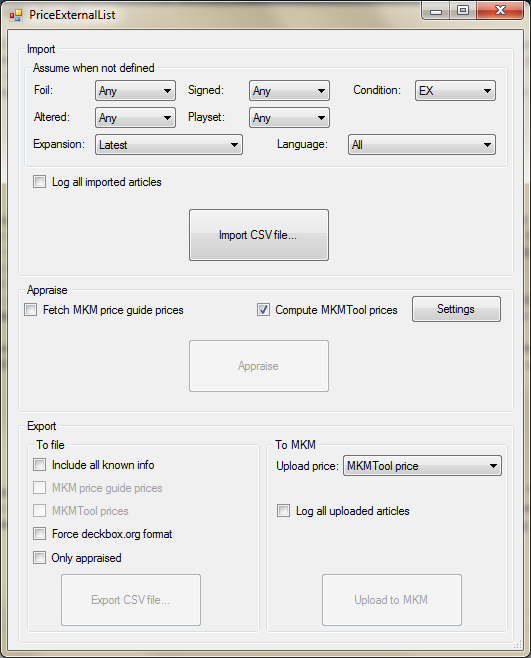
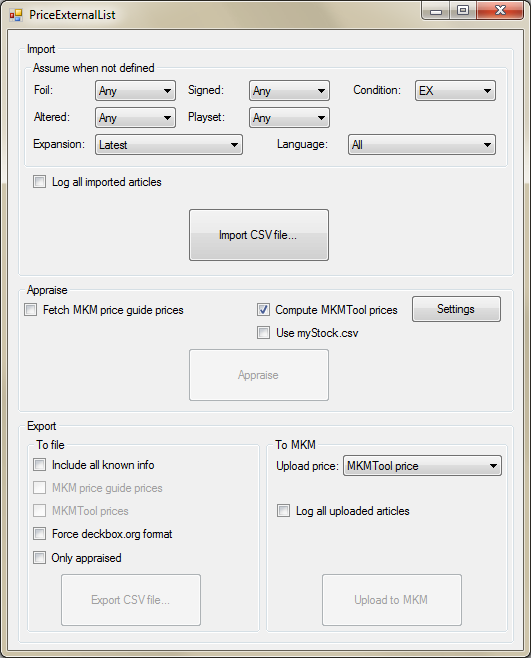
[externalList] Added the option to use myStock when pricing external list and also checks if the article in the list has a MinPrice and uses it if so
Also fixed wrong behaviour of enabling/disabling the Settings button when Compute tool prices is/isn't checked

diff --git a/MKMTool/MKMBot.cs b/MKMTool/MKMBot.cs
@@ -388,14 +388,16 @@ namespace MKMTool
         /// KMTool Price and Price - Cheapest Similar. The first has the price computed, the second has the price of the item that
         /// is currently on sale and has the lowest price and is the same condition, language etc. 
         /// and also from domestic seller if worldwide search is not enabled in the settings.</param>
-        public void generatePrices(List<MKMMetaCard> cardList)
+        /// <param name="useMyStock">If set to true, the MyStock.csv file will be used during the appraisal to 
+        /// limit minimum prices of appraised cards.</param>
+        public void generatePrices(List<MKMMetaCard> cardList, bool useMyStock)
         {
             settings.priceMaxChangeLimits.Clear();
             settings.logLargePriceChangeTooHigh = false;
             settings.logLargePriceChangeTooLow = false;
 
             MainView.Instance.LogMainWindow("Appraising card list...");
-            Dictionary<string, List<MKMMetaCard>> myStock = new Dictionary<string, List<MKMMetaCard>>(); // just an empty dummy myStock lists
+            Dictionary<string, List<MKMMetaCard>> myStock = useMyStock ? LoadMyStock() : new Dictionary<string, List<MKMMetaCard>>();
             foreach (MKMMetaCard mc in cardList)
             {
                 XmlNodeList similarItems = getSimilarItems(mc);
@@ -414,23 +416,12 @@ namespace MKMTool
             MainView.Instance.LogMainWindow("List appraised.");
         }
 
-
-        public void updatePrices()
+        /// <summary>
+        /// Reads the myStock.csv file used for setting minimal prices during appraisal.
+        /// </summary>
+        /// <returns>Dictionary of cards, key == card name or empty string for MetaCards that should ignore names.</returns>
+        private Dictionary<string, List<MKMMetaCard>> LoadMyStock()
         {
-            if (settings.priceSetPriceBy == PriceSetMethod.ByPercentageOfLowestPrice && settings.priceMaxChangeLimits.Count == 0)
-            {
-                MainView.Instance.LogMainWindow("Setting price according to lowest price is very risky - specify limits for maximal price change first!");
-                return;
-            }
-
-#if (DEBUG)
-            var debugCounter = 0;
-#endif
-            List<XmlNode> articles = new List<XmlNode>();
-            string sRequestXML = "";
-            XmlNodeList result;
-            var start = 1;
-            // load file with lowest prices
             Dictionary<string, List<MKMMetaCard>> myStock = new Dictionary<string, List<MKMMetaCard>>();
             if (File.Exists(@".//myStock.csv"))
             {
@@ -460,6 +451,26 @@ namespace MKMTool
                     MKMHelpers.LogError("reading list of minimal prices, continuing price update without it", eError.Message, false);
                 }
             }
+            return myStock;
+        }
+
+        public void updatePrices()
+        {
+            if (settings.priceSetPriceBy == PriceSetMethod.ByPercentageOfLowestPrice && settings.priceMaxChangeLimits.Count == 0)
+            {
+                MainView.Instance.LogMainWindow("Setting price according to lowest price is very risky - specify limits for maximal price change first!");
+                return;
+            }
+
+#if (DEBUG)
+            var debugCounter = 0;
+#endif
+            List<XmlNode> articles = new List<XmlNode>();
+            string sRequestXML = "";
+            XmlNodeList result;
+            var start = 1;
+            // load file with lowest prices
+            Dictionary<string, List<MKMMetaCard>> myStock = LoadMyStock();
             try
             {
                 do
@@ -750,6 +761,19 @@ namespace MKMTool
                 && Math.Abs(priceEstimation - dOldPrice) > 0.005 // don't update if it did not change - clearer log
                 )
             {
+                // Check if the card itself has MinPrice defined - won't happen for traditional update, but can for External List Appraisal
+                double dOwnMinPrice;
+                string sOwnMinPrice = article.GetAttribute(MCAttribute.MinPrice);
+                if (double.TryParse(sOwnMinPrice, out dOwnMinPrice))
+                {
+                    if (isPlayset == "true")
+                        dOwnMinPrice /= 4;
+                    if (priceEstimation < dOwnMinPrice)
+                    {
+                        priceEstimation = dOwnMinPrice;
+                        sNewPrice = sOwnMinPrice;
+                    }
+                }
                 // check against minimum price from local stock database
                 List<MKMMetaCard> listArticles = new List<MKMMetaCard>();
                 if (myStock.ContainsKey(""))
@@ -758,6 +782,8 @@ namespace MKMTool
                     listArticles.AddRange(myStock[articleName]);
                 if (listArticles.Count > 0)
                 {
+                    //reset the min price - card.Equals would otherwise resolve an equal card as not equal because the cards coming from MKM do not have the Min Price
+                    article.SetAttribute(MCAttribute.MinPrice, "");
                     foreach (MKMMetaCard card in listArticles)
                     {
                         if (card.Equals(article))
@@ -773,7 +799,9 @@ namespace MKMTool
                             }
                         }
                     }
+                    article.SetAttribute(MCAttribute.MinPrice, sOwnMinPrice); // restore the Min Price
                 }
+
                 // log large change or small change when enabled
                 if (settings.logUpdated && (settings.logSmallPriceChange ||
                     (priceEstimation > dOldPrice + settings.priceMinRarePrice || priceEstimation < dOldPrice - settings.priceMinRarePrice)))

diff --git a/MKMTool/PriceExternalList.Designer.cs b/MKMTool/PriceExternalList.Designer.cs
@@ -66,6 +66,7 @@
             this.checkBoxExportFormatDeckbox = new System.Windows.Forms.CheckBox();
             this.checkBoxExportPriceGuide = new System.Windows.Forms.CheckBox();
             this.toolTip1 = new System.Windows.Forms.ToolTip(this.components);
+            this.checkBoxMyStock = new System.Windows.Forms.CheckBox();
             this.groupBoxImport.SuspendLayout();
             this.groupBox1.SuspendLayout();
             this.groupBoxPrice.SuspendLayout();
@@ -288,6 +289,7 @@
             // 
             // groupBoxPrice
             // 
+            this.groupBoxPrice.Controls.Add(this.checkBoxMyStock);
             this.groupBoxPrice.Controls.Add(this.buttonBotSettings);
             this.groupBoxPrice.Controls.Add(this.buttonAppraise);
             this.groupBoxPrice.Controls.Add(this.checkBoxToolPrices);
@@ -311,7 +313,7 @@
             // 
             // buttonAppraise
             // 
-            this.buttonAppraise.Location = new System.Drawing.Point(170, 56);
+            this.buttonAppraise.Location = new System.Drawing.Point(170, 65);
             this.buttonAppraise.Name = "buttonAppraise";
             this.buttonAppraise.Size = new System.Drawing.Size(142, 54);
             this.buttonAppraise.TabIndex = 13;
@@ -492,6 +494,18 @@
             this.checkBoxExportPriceGuide.Text = "MKM price guide prices";
             this.checkBoxExportPriceGuide.UseVisualStyleBackColor = true;
             // 
+            // checkBoxMyStock
+            // 
+            this.checkBoxMyStock.AutoSize = true;
+            this.checkBoxMyStock.Location = new System.Drawing.Point(239, 42);
+            this.checkBoxMyStock.Name = "checkBoxMyStock";
+            this.checkBoxMyStock.Size = new System.Drawing.Size(109, 17);
+            this.checkBoxMyStock.TabIndex = 15;
+            this.checkBoxMyStock.Text = "Use myStock.csv";
+            this.toolTip1.SetToolTip(this.checkBoxMyStock, "If checked, your myStock.csv will be used to limit minimal prices for the assigne" +
+        "d MKMTool Price");
+            this.checkBoxMyStock.UseVisualStyleBackColor = true;
+            // 
             // PriceExternalList
             // 
             this.AutoScaleDimensions = new System.Drawing.SizeF(6F, 13F);
@@ -557,5 +571,6 @@
         private System.Windows.Forms.GroupBox groupBoxExportFile;
         private System.Windows.Forms.CheckBox checkBoxExportLogAll;
         private System.Windows.Forms.CheckBox checkBoxExportOnlyAppraised;
+        private System.Windows.Forms.CheckBox checkBoxMyStock;
     }
 }

diff --git a/MKMTool/PriceExternalList.cs b/MKMTool/PriceExternalList.cs
@@ -108,9 +108,10 @@ namespace MKMTool
 
         private void checkBoxToolPrices_CheckedChanged(object sender, EventArgs e)
         {
-            buttonBotSettings.Enabled = checkBoxToolPrices.Enabled;
+            buttonBotSettings.Enabled = checkBoxToolPrices.Checked;
             if (!buttonBotSettings.Enabled && !botSettings.IsDisposed)
-                botSettings.Close();
+                botSettings.Hide();
+            checkBoxMyStock.Enabled = checkBoxToolPrices.Checked;
         }
 
         private async void buttonImport_Click(object sender, EventArgs e)
@@ -616,7 +617,7 @@ namespace MKMTool
             if (MKMToolPrice)
             {
                 MainView.Instance.LogMainWindow("Generating MKMTool prices for the imported list...");
-                bot.generatePrices(importedValidOnly);
+                bot.generatePrices(importedValidOnly, checkBoxMyStock.Enabled && checkBoxMyStock.Checked); // the checkbox can be checked, but not enabled if user does not want MKMTool prices
                 toolPriceGenerated = true;
                 MainView.Instance.LogMainWindow("Prices generated.");
             }

diff --git a/README.md b/README.md
@@ -5,6 +5,7 @@ If you have just updated to 0.7.0 from older version, please delete the "mkmtool
 ## Latest changes
 
 **Version 0.7.0.4, 19.10.2019**
++ Using the myStock.csv when pricing external list is now possible (there is a checkbox, default off). Also, if list contains the Min Price column, that price will also be used as minimal price (same rules apply as when using myStock.csv).
 + Fixed failed price updates when the price was computed to less than 0.02€ - MKM requires 2 cents as minimum -> if a lower price is computed, it is set to 0.02€
 + Fixed failed article updates when comments included characters that are special in XML (&, <, > etc.) -> the special characters can now be used
 + Language, Localized Name and Rarity have been added to the inventory viewer
